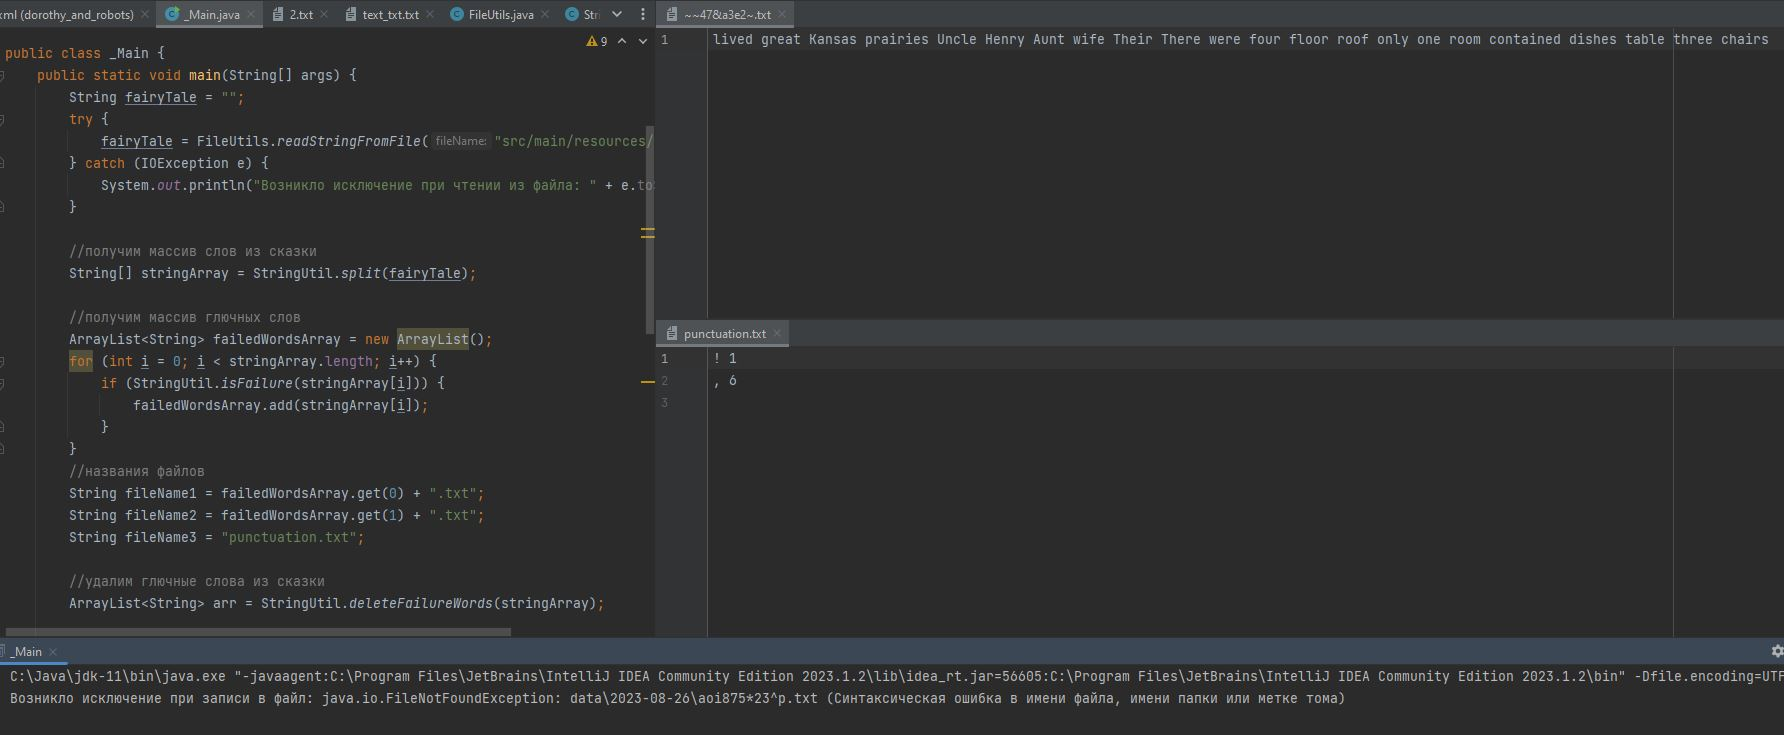
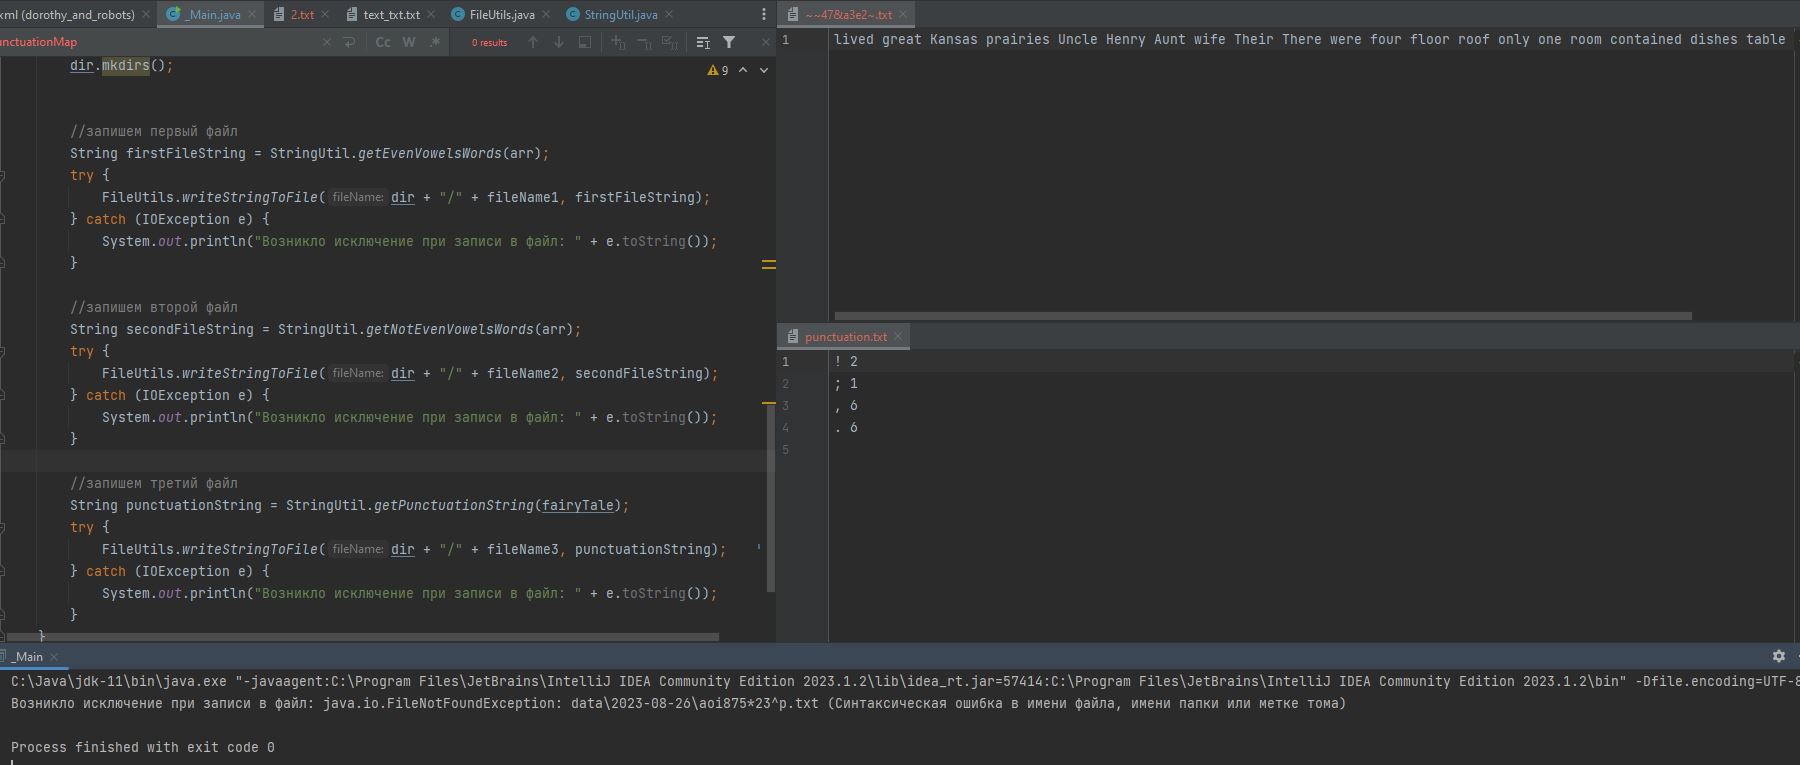
fix method getPunctuationString

Changed region(s): [[0.0, 0.5088, 1.0, 0.9878], [0.0, 0.0, 1.0, 0.5687]]

diff --git a/src/main/java/me/ssagan/dorothyapp/util/StringUtil.java b/src/main/java/me/ssagan/dorothyapp/util/StringUtil.java
@@ -54,20 +54,21 @@ public class StringUtil {
         return sb.toString();
     }
 
-    public static String getPunctuationMap(String str) {
+    public static String getPunctuationString(String str) {
         HashMap<Character, Integer> punctuationMap = new HashMap<>();
         for (int i = 0; i < str.length(); i++) {
             Character ch = str.charAt(i);
             if (ch.equals('.') || ch.equals(',') || ch.equals('?') || ch.equals('!') || ch.equals(':') || ch.equals(';')) {
                 Integer n = punctuationMap.get(str.charAt(i));
-                if (n == null) punctuationMap.put(str.charAt(i), 1);
-                else punctuationMap.put(str.charAt(i), ++n);
+                if (n == null) {punctuationMap.put(str.charAt(i), 1);}
+                else {punctuationMap.put(str.charAt(i), ++n);}
             }
         }
         StringBuilder sb = new StringBuilder();
         Iterator<Map.Entry<Character, Integer>> itr = punctuationMap.entrySet().iterator();
         while (itr.hasNext()) {
-            sb.append(itr.next().getKey() + " " + itr.next().getValue() + "\n");
+            Map.Entry<Character, Integer> item = itr.next();
+            sb.append(item.getKey() + " " + item.getValue() + "\n");
         }
         return sb.toString();
     }

diff --git a/src/main/java/me/ssagan/dorothyapp/_main/_Main.java b/src/main/java/me/ssagan/dorothyapp/_main/_Main.java
@@ -61,7 +61,7 @@ public class _Main {
         }
 
         //запишем третий файл
-        String punctuationString = StringUtil.getPunctuationMap(fairyTale);
+        String punctuationString = StringUtil.getPunctuationString(fairyTale);
         try {
             FileUtils.writeStringToFile(dir + "/" + fileName3, punctuationString);
         } catch (IOException e) {
